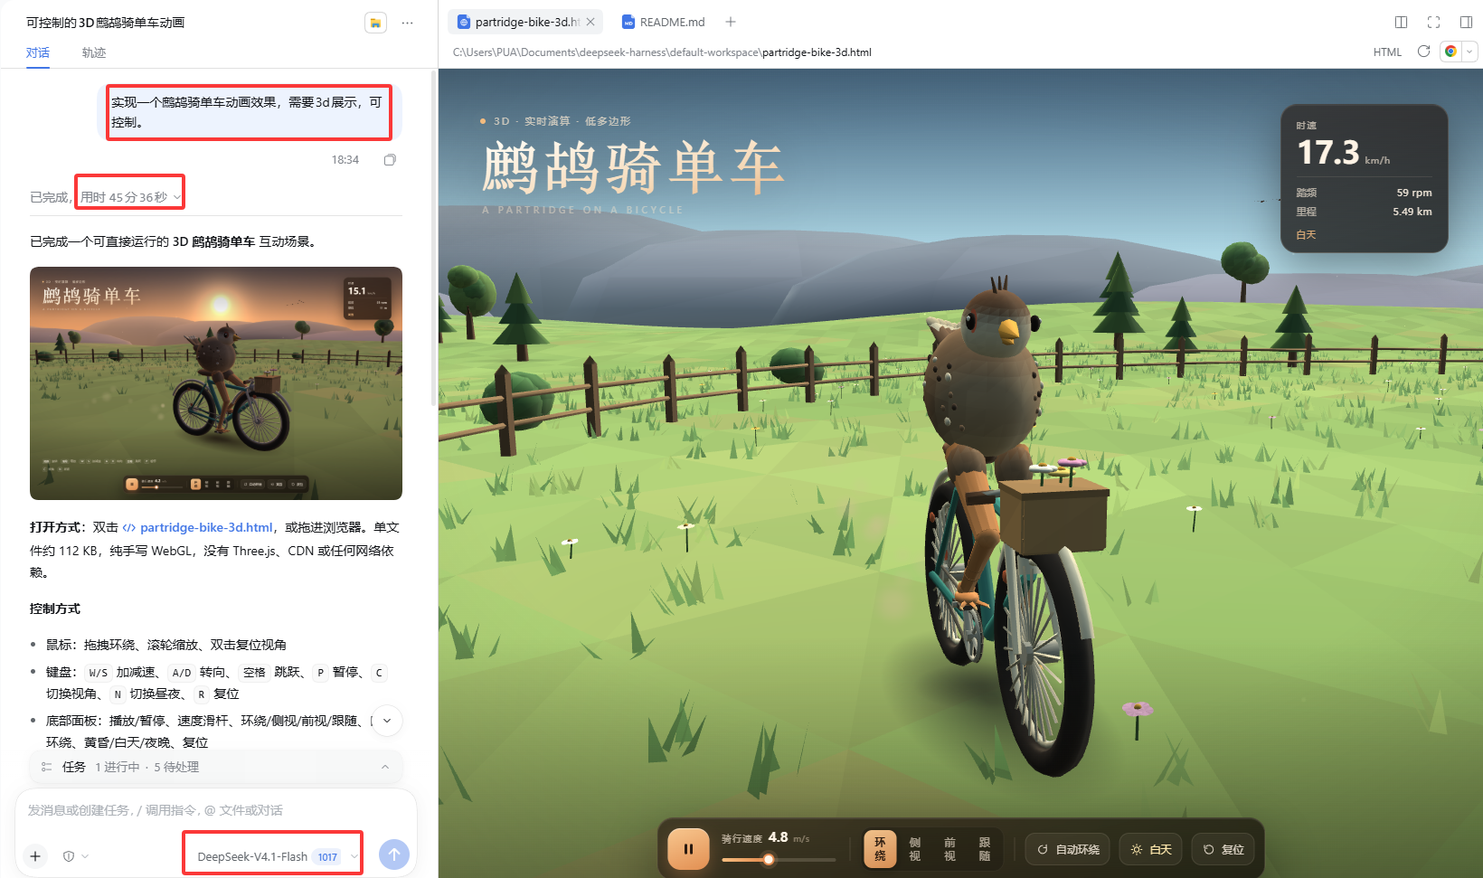
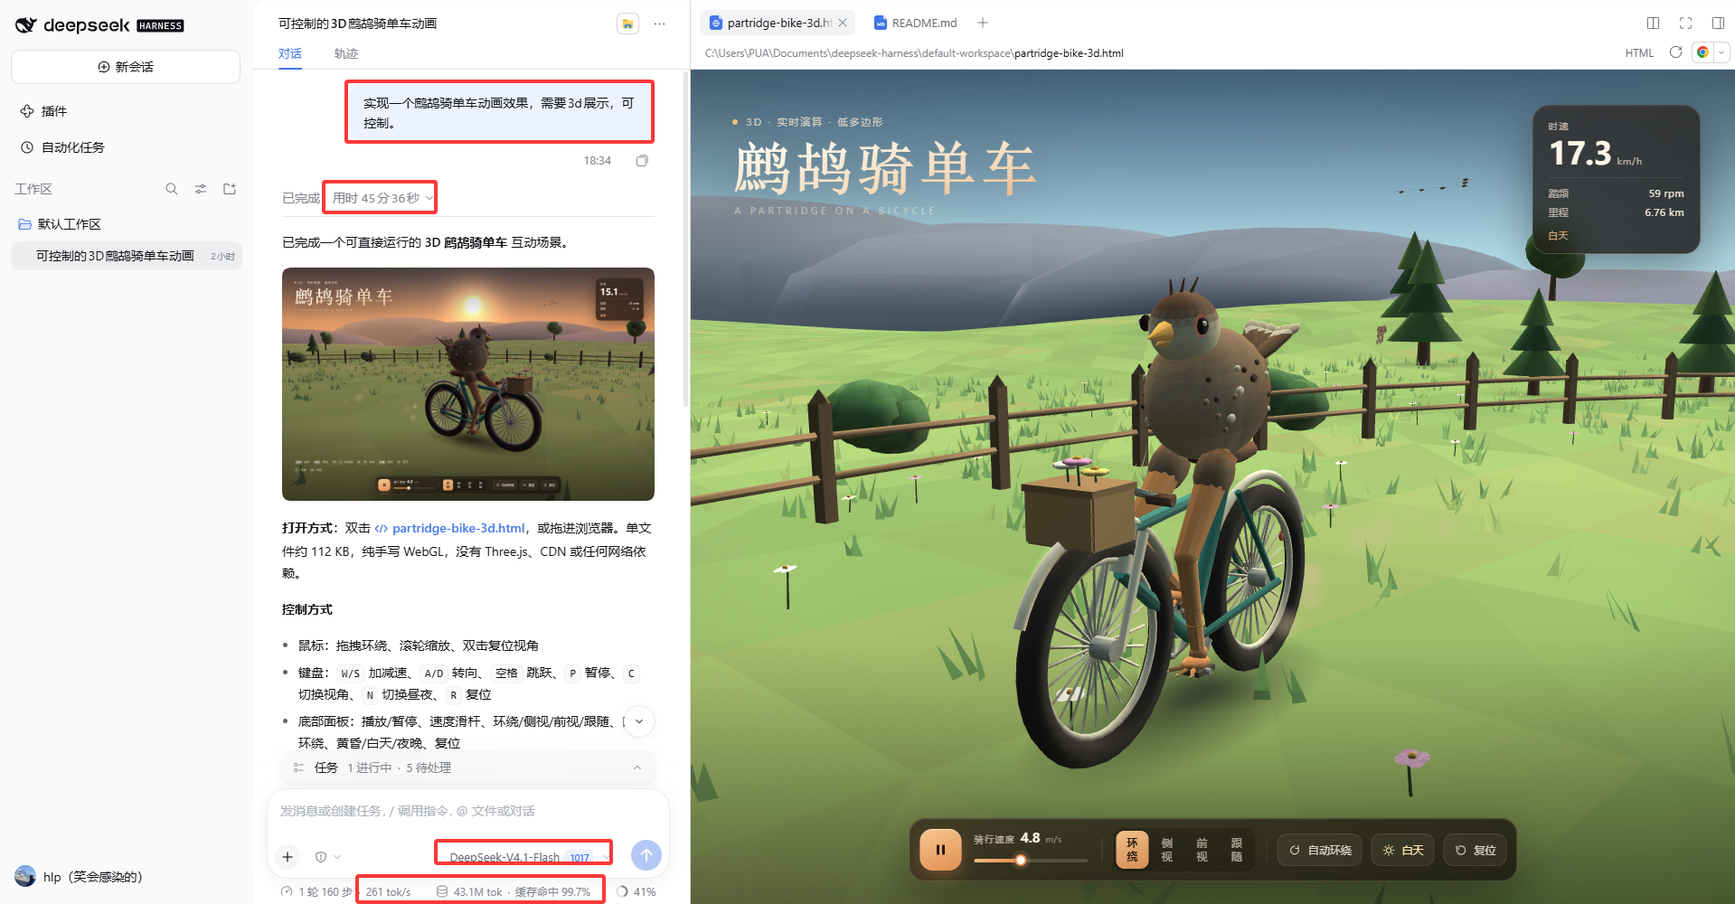
docs: replace DeepSeek task evidence and record visible usage statistics
Use the user-supplied screenshot showing elapsed time, model label, 261 tok/s and 99.7% cache hit rate. Preserve exact billing totals and distinguish the rounded interface token count. Update the comparison table, CSV and downloadable archive.

diff --git a/showcase/index.html b/showcase/index.html
@@ -1,6 +1,6 @@
 <!doctype html>
 <html lang="zh-CN">
-<head><meta charset="utf-8"><meta name="viewport" content="width=device-width,initial-scale=1"><meta name="theme-color" content="#f4f2ec"><title>鹧鸪骑单车 · 一个案例，多种实现</title><meta name="description" content="鹧鸪骑单车案例合集：MiniMax 完整版，以及 Codex、DeepSeek、混元的三份同题作品、耗时和消耗记录。"><link rel="icon" href="icon.svg" type="image/svg+xml"><link rel="stylesheet" href="style.css"><script type="module" src="app.js"></script></head>
+<head><meta charset="utf-8"><meta name="viewport" content="width=device-width,initial-scale=1"><meta name="theme-color" content="#f4f2ec"><title>鹧鸪骑单车 · 一个案例，多种实现</title><meta name="description" content="鹧鸪骑单车案例合集：MiniMax 完整版，以及 Codex、DeepSeek、混元的三份同题作品、耗时和消耗记录。"><link rel="icon" href="icon.svg" type="image/svg+xml"><link rel="stylesheet" href="style.css"><script type="module" src="app.js?v=deepseek-stats-2"></script></head>
 <body id="top">
 <a class="skip" href="#works">跳至作品</a>
 <header class="header wrap"><a class="brand" href="#top"><span class="brand-mark" aria-hidden="true">a<span>i</span></span><span>鹧鸪骑单车<small>ONE CASE / MANY BUILDS</small></span></a><nav aria-label="主导航"><a href="#minimax">完整版</a><a href="#works">同题作品</a><a href="#data">数据</a><a href="#archive">记录</a></nav><a class="edition" href="https://github.com/yydshly/partridge-bike" target="_blank" rel="noopener">GitHub ↗</a></header>
@@ -9,8 +9,8 @@
  <section class="legacy wrap" id="minimax" aria-labelledby="minimax-title"><a class="legacy-image" href="minimax/"><img src="previews/minimax.jpg" alt="MiniMax 鹧鸪骑行小世界，包含路线、天气与音乐" loading="lazy"><span>进入完整版 ↗</span></a><div class="legacy-copy"><span class="section-no">MINIMAX / 已有完整版</span><h2 id="minimax-title">沿着一条路，<br>骑进一个小世界。</h2><p>六段路线、昼夜天气、自动巡航，以及 8 首配乐。保留这个案例已有的完整体验与演示视频。</p><div class="legacy-links"><a class="button-dark" href="minimax/">打开 MiniMax 完整版 ↗</a><a class="text-link" href="https://github.com/yydshly/partridge-bike/releases/tag/demo-video-2026-10-17" target="_blank" rel="noopener">看演示视频 ↗</a></div><small>历史版本 · 代码与音乐由 MiniMax 生成<br>耗时、费用和具体模型版本未提供，未计入下方三次同题记录。</small></div></section>
  <section class="works wrap" id="works" aria-labelledby="works-title"><div class="section-heading"><div><span class="section-no">2026.10.18 / SAME PROMPT</span><h2 id="works-title">三份同题作品，亲手试试。</h2></div><p>保留各自的最终成品<br>点击作品，进入交互体验</p></div><div id="cards" class="cards"><p>正在读取作品档案…</p></div></section>
  <section class="viewer-section wrap" id="playground" aria-labelledby="viewer-heading"><div class="viewer-heading"><div><span class="section-no">INTERACTIVE PLAYGROUND</span><h2 id="viewer-heading">体验台</h2></div><div class="viewer-links"><a id="standalone" target="_blank" rel="noopener" href="demos/codex/">独立打开 ↗</a><a id="download-artifact" href="demos/codex/index.html" download="codex-partridge.html">下载成品 ↓</a></div></div><div class="viewer"><div id="tabs" class="tabs" role="tablist" aria-label="选择作品"></div><div id="demo-panel" role="tabpanel" aria-label="作品体验区" tabindex="0"><div class="poster"><img id="poster-image" src="previews/codex.png" alt="GPT-6 Astra 的鹧鸪骑单车作品"><button id="start-demo" class="start-demo" type="button"><span aria-hidden="true">▶</span> 启动 3D 体验</button></div><div id="frame-container"></div></div><div class="viewer-foot"><span id="viewer-status" role="status">点击启动后，可直接使用作品自带的控制面板。</span><button id="stop-demo" type="button" hidden>结束体验 ×</button></div></div><div class="feature-line"><span>可以试试</span><p id="features"></p></div></section>
- <section class="data-section" id="data" aria-labelledby="data-title"><div class="wrap"><div class="section-heading"><div><span class="section-no">02 / THE RECORDS</span><h2 id="data-title">效果之外，把数字摊开。</h2></div><div class="download-links"><a href="data.csv" download>下载 CSV ↓</a><a href="data.json" download>原始数据 JSON ↗</a></div></div><p class="data-intro">时间来自任务界面，消耗来自用户账单或说明；每一个已知数字，都保留来源。</p><div class="table-scroll" tabindex="0" role="region" aria-label="模型、耗时与消耗对照表"><table><caption class="sr-only">一次鹧鸪骑单车任务的三份成品记录</caption><thead><tr><th scope="col">记录项</th><th scope="col"><span class="model-dot codex"></span>GPT-6 Astra</th><th scope="col"><span class="model-dot deepseek"></span>DeepSeek-V4.1-Flash</th><th scope="col"><span class="model-dot hunyuan"></span>混元 4</th></tr></thead><tbody id="metrics"></tbody></table></div><div class="data-notes"><p><b>01</b><span>耗时包含各自任务过程。环境、工具、迭代次数未统一，不能直接等同于模型生成速度。</span></p><p><b>02</b><span>DeepSeek 账单窗口为“近 30 天”；用户确认全部消耗来自本次任务。Tokens 无输入、输出、缓存拆分。</span></p><p><b>03</b><span>“未提供”表示没有数据。混元本次使用免费额度，单独标注；不代表常规 API 定价。这是单次成品记录，不作模型整体排名。</span></p></div></div></section>
- <section class="archive wrap" id="archive" aria-labelledby="archive-title"><div class="section-heading"><div><span class="section-no">03 / TRACEABLE BY DESIGN</span><h2 id="archive-title">成品有来处，数据有凭据。</h2></div><p>原始截图与项目档案<br>方便回看，也方便后续补充</p></div><div class="evidence-grid"><button class="evidence" data-evidence="codex-session.png" data-title="Codex · 模型与任务耗时" type="button"><span class="evidence-image"><img src="evidence/codex-session.png" alt="Codex 截图：GPT-6 Astra 极高，20 分 11 秒" loading="lazy"></span><span class="evidence-caption"><span><b>Codex · 任务界面</b><small>模型设置与 20 分 11 秒用时</small></span><span aria-hidden="true">↗</span></span></button><button class="evidence" data-evidence="deepseek-session.png" data-title="DeepSeek · 模型与任务耗时" type="button"><span class="evidence-image"><img src="evidence/deepseek-session.png" alt="DeepSeek 任务界面：模型及 45 分 36 秒用时" loading="lazy"></span><span class="evidence-caption"><span><b>DeepSeek · 任务界面</b><small>模型版本与 45 分 36 秒用时</small></span><span aria-hidden="true">↗</span></span></button><button class="evidence" data-evidence="deepseek-usage.png" data-title="DeepSeek · 消耗账单（近 30 天，用户确认全属本任务）" type="button"><span class="evidence-image billing"><img src="evidence/deepseek-usage.png" alt="DeepSeek 账单：¥2.24、161 次 API 请求、43,141,343 Tokens" loading="lazy"></span><span class="evidence-caption"><span><b>DeepSeek · 消耗账单</b><small>¥2.24 / 161 次 / 43,141,343 Tokens</small></span><span aria-hidden="true">↗</span></span></button><button class="evidence" data-evidence="hunyuan-session.png" data-title="混元 4 · WorkBuddy / Hy4 preview / 25 分 12 秒 / 夜间免费" type="button"><span class="evidence-image"><img src="evidence/hunyuan-session.png" alt="WorkBuddy 任务截图：Hy4 preview、25m12s、夜间免费" loading="lazy"></span><span class="evidence-caption"><span><b>混元 4 · WorkBuddy 任务界面</b><small>Hy4 preview / 25 分 12 秒 / 夜间免费</small></span><span aria-hidden="true">↗</span></span></button></div><div class="archive-bottom"><div><h3>每个项目，留下一份完整档案。</h3><p>提示词、原始成品、可用源码、模型记录与证据按目录保存。<br>三份成品原样归档，并记录文件校验值。</p></div><a class="button-dark" href="downloads/partridge-bike-archive.zip" download>下载项目档案 <span>↓</span></a></div><details class="method"><summary>关于这次观察 <span>＋</span></summary><div><p>三次测试使用同一提示词，由用户确认。展示内容是各自的最终成品，包含可能的迭代与修复，不标注“一次生成”。模型名称和设置以用户提供的截图或说明为依据。</p><p>原始成品的绘制、动画与控制代码均未为本展示站修改。体验台按需加载一个作品，也可独立打开完整页面。作品需要支持 WebGL 的浏览器；用电脑体验更方便。</p><p>Codex 的界面耗时包含实现、检查和部署等工作。混元使用 WorkBuddy 的 Hy4 preview，截图显示耗时 25 分 12 秒，用户确认本次使用免费额度，界面标注夜间免费。混元 Tokens、API 请求次数及额度扣减数量未提供；Codex 消耗未提供。</p><p>本仓库聚焦「鹧鸪骑单车」这一个案例。MiniMax 完整版是已有版本；下方档案按日期保存本次三模型同题记录，后续可在同一仓库继续补充。</p></div></details></section>
+ <section class="data-section" id="data" aria-labelledby="data-title"><div class="wrap"><div class="section-heading"><div><span class="section-no">02 / THE RECORDS</span><h2 id="data-title">效果之外，把数字摊开。</h2></div><div class="download-links"><a href="data.csv" download>下载 CSV ↓</a><a href="data.json" download>原始数据 JSON ↗</a></div></div><p class="data-intro">时间来自任务界面，消耗来自用户账单或说明；每一个已知数字，都保留来源。</p><div class="table-scroll" tabindex="0" role="region" aria-label="模型、耗时与消耗对照表"><table><caption class="sr-only">一次鹧鸪骑单车任务的三份成品记录</caption><thead><tr><th scope="col">记录项</th><th scope="col"><span class="model-dot codex"></span>GPT-6 Astra</th><th scope="col"><span class="model-dot deepseek"></span>DeepSeek-V4.1-Flash</th><th scope="col"><span class="model-dot hunyuan"></span>混元 4</th></tr></thead><tbody id="metrics"></tbody></table></div><div class="data-notes"><p><b>01</b><span>耗时包含各自任务过程。环境、工具、迭代次数未统一，不能直接等同于模型生成速度。</span></p><p><b>02</b><span>DeepSeek 账单窗口为“近 30 天”，用户确认全属本任务。截图中的 43.1M tok 为近似显示；精确 Tokens 与费用采用账单，速率及缓存命中率采用界面原值。Tokens 无输入、输出、缓存数量拆分。</span></p><p><b>03</b><span>“未提供”表示没有数据。混元本次使用免费额度，单独标注；不代表常规 API 定价。这是单次成品记录，不作模型整体排名。</span></p></div></div></section>
+ <section class="archive wrap" id="archive" aria-labelledby="archive-title"><div class="section-heading"><div><span class="section-no">03 / TRACEABLE BY DESIGN</span><h2 id="archive-title">成品有来处，数据有凭据。</h2></div><p>原始截图与项目档案<br>方便回看，也方便后续补充</p></div><div class="evidence-grid"><button class="evidence" data-evidence="codex-session.png" data-title="Codex · 模型与任务耗时" type="button"><span class="evidence-image"><img src="evidence/codex-session.png" alt="Codex 截图：GPT-6 Astra 极高，20 分 11 秒" loading="lazy"></span><span class="evidence-caption"><span><b>Codex · 任务界面</b><small>模型设置与 20 分 11 秒用时</small></span><span aria-hidden="true">↗</span></span></button><button class="evidence" data-evidence="deepseek-session.png" data-title="DeepSeek · 任务统计 / 45 分 36 秒 / 261 tok/s / 缓存命中 99.7%" type="button"><span class="evidence-image"><img src="evidence/deepseek-session.png?v=deepseek-stats-2" alt="DeepSeek 任务统计：DeepSeek-V4.1-Flash 1017、45 分 36 秒、261 tok/s、43.1M tok、缓存命中 99.7%" loading="lazy"></span><span class="evidence-caption"><span><b>DeepSeek · 任务统计</b><small>45 分 36 秒 / 261 tok/s / 缓存命中 99.7%</small></span><span aria-hidden="true">↗</span></span></button><button class="evidence" data-evidence="deepseek-usage.png" data-title="DeepSeek · 消耗账单（近 30 天，用户确认全属本任务）" type="button"><span class="evidence-image billing"><img src="evidence/deepseek-usage.png" alt="DeepSeek 账单：¥2.24、161 次 API 请求、43,141,343 Tokens" loading="lazy"></span><span class="evidence-caption"><span><b>DeepSeek · 消耗账单</b><small>¥2.24 / 161 次 / 43,141,343 Tokens</small></span><span aria-hidden="true">↗</span></span></button><button class="evidence" data-evidence="hunyuan-session.png" data-title="混元 4 · WorkBuddy / Hy4 preview / 25 分 12 秒 / 夜间免费" type="button"><span class="evidence-image"><img src="evidence/hunyuan-session.png" alt="WorkBuddy 任务截图：Hy4 preview、25m12s、夜间免费" loading="lazy"></span><span class="evidence-caption"><span><b>混元 4 · WorkBuddy 任务界面</b><small>Hy4 preview / 25 分 12 秒 / 夜间免费</small></span><span aria-hidden="true">↗</span></span></button></div><div class="archive-bottom"><div><h3>每个项目，留下一份完整档案。</h3><p>提示词、原始成品、可用源码、模型记录与证据按目录保存。<br>三份成品原样归档，并记录文件校验值。</p></div><a class="button-dark" href="downloads/partridge-bike-archive.zip" download>下载项目档案 <span>↓</span></a></div><details class="method"><summary>关于这次观察 <span>＋</span></summary><div><p>三次测试使用同一提示词，由用户确认。展示内容是各自的最终成品，包含可能的迭代与修复，不标注“一次生成”。模型名称和设置以用户提供的截图或说明为依据。</p><p>原始成品的绘制、动画与控制代码均未为本展示站修改。体验台按需加载一个作品，也可独立打开完整页面。作品需要支持 WebGL 的浏览器；用电脑体验更方便。</p><p>Codex 的界面耗时包含实现、检查和部署等工作。混元使用 WorkBuddy 的 Hy4 preview，截图显示耗时 25 分 12 秒，用户确认本次使用免费额度，界面标注夜间免费。混元 Tokens、API 请求次数及额度扣减数量未提供；Codex 消耗未提供。</p><p>本仓库聚焦「鹧鸪骑单车」这一个案例。MiniMax 完整版是已有版本；下方档案按日期保存本次三模型同题记录，后续可在同一仓库继续补充。</p></div></details></section>
 </main><footer class="wrap"><span>鹧鸪骑单车 <span class="muted">/ 一个案例，多种实现。</span></span><a href="https://github.com/yydshly/partridge-bike" target="_blank" rel="noopener">查看项目仓库 ↗</a><a href="#top">回到顶部 ↑</a></footer>
 <dialog id="evidence-dialog" aria-labelledby="evidence-title"><div class="dialog-top"><h2 id="evidence-title">证据截图</h2><button id="close-evidence" type="button" aria-label="关闭证据截图">×</button></div><div class="evidence-scroll"><img id="evidence-full" alt=""></div><a id="evidence-original" target="_blank" rel="noopener">打开原图 ↗</a></dialog><div class="toast" id="toast" role="status" hidden></div><noscript><p class="wrap">启用 JavaScript 可查看数据并交互。也可直接打开：<a href="demos/codex/">Codex 成品</a> / <a href="demos/deepseek/">DeepSeek 成品</a> / <a href="demos/hunyuan/">混元成品</a>。</p></noscript>
 </body></html>

diff --git a/showcase/app.js b/showcase/app.js
@@ -19,12 +19,12 @@ function start(){
  frame.addEventListener('load',()=>{$('#viewer-status').textContent='体验中 · 可拖拽场景、调节速度，或使用作品自带的控制面板。';});
  $('#frame-container').append(frame);
 }
-function openEvidence(file,title){$('#evidence-title').textContent=title;$('#evidence-full').src=`evidence/${file}`;$('#evidence-full').alt=title;$('#evidence-original').href=`evidence/${file}`;$('#evidence-dialog').showModal();}
+function openEvidence(file,title){if(file==='deepseek-session.png')file+='?v=deepseek-stats-2';$('#evidence-title').textContent=title;$('#evidence-full').src=`evidence/${file}`;$('#evidence-full').alt=title;$('#evidence-original').href=`evidence/${file}`;$('#evidence-dialog').showModal();}
 async function boot(){
- const response=await fetch('data.json');if(!response.ok)throw Error('数据暂时无法读取');data=await response.json();
+ const response=await fetch('data.json',{cache:'no-cache'});if(!response.ok)throw Error('数据暂时无法读取');data=await response.json();
  $('#cards').innerHTML=data.runs.map((r,i)=>`<article class="work-card ${r.id}"><button class="card-preview" data-play="${r.id}" type="button" aria-label="体验 ${esc(r.name)} 的作品"><img src="previews/${r.id}.png" alt="${esc(r.name+'：'+r.short)}" ${i?'loading="lazy"':''}><span class="card-index">0${i+1}</span><span class="card-arrow" aria-hidden="true">↗</span></button><div class="card-meta"><span class="model-name"><span class="model-dot"></span>${esc(r.name)}</span><span class="harness">${esc(r.harness)}</span></div><h3>${esc(r.short)}</h3><div class="card-stats"><div><small>界面任务耗时</small><strong class="${r.timeSeconds===null?'missing':''}">${esc(r.timeLabel)}</strong></div><div><small>本次费用 · CNY</small><strong class="${r.costCny===null?'missing':''}">${r.costCny===null?'未提供':esc(r.costLabel||'¥'+r.costCny.toFixed(2))}</strong></div></div></article>`).join('');
  $('#tabs').innerHTML=data.runs.map(r=>`<button id="tab-${r.id}" type="button" role="tab" data-id="${r.id}" aria-controls="demo-panel" aria-selected="false" tabindex="-1">${esc(r.name)}</button>`).join('');
- const rows=[['工具环境',r=>esc(r.harness)],['模型设置 / 版本标记',r=>esc(r.setting)],['界面任务耗时',r=>r.timeSeconds===null?unknown:`<span class="number">${Math.floor(r.timeSeconds/60)}<span class="subunit">′</span>${String(r.timeSeconds%60).padStart(2,'0')}″</span><span class="subcell">${esc(r.timeLabel)}</span>`],['费用 · CNY',r=>r.costCny===null?unknown:`${r.costBasis==='free_quota'?`<span class="free-quota">${esc(r.costLabel)}</span><span class="subcell">WorkBuddy · 夜间免费</span>`:`<span class="number money">¥${r.costCny.toFixed(2)}</span>`}`],['Tokens · 账单合计',r=>r.tokens===null?unknown:`<span class="number">${r.tokens.toLocaleString('en-US')}</span>`],['API 请求次数',r=>r.requests===null?unknown:`<span class="number">${r.requests}</span>`],['3D 实现',r=>esc(r.engine)],['记录依据',r=>r.evidence.length?`<button class="cell-source" data-evidence="${r.evidence[0]}" data-title="${esc(r.name)} · 任务截图" type="button">查看截图 ↗</button>`:'<span class="subcell">模型名称来自用户说明</span>']];
+ const rows=[['工具环境',r=>esc(r.harness)],['模型设置 / 版本标记',r=>esc(r.setting)],['界面任务耗时',r=>r.timeSeconds===null?unknown:`<span class="number">${Math.floor(r.timeSeconds/60)}<span class="subunit">′</span>${String(r.timeSeconds%60).padStart(2,'0')}″</span><span class="subcell">${esc(r.timeLabel)}</span>`],['费用 · CNY',r=>r.costCny===null?unknown:`${r.costBasis==='free_quota'?`<span class="free-quota">${esc(r.costLabel)}</span><span class="subcell">WorkBuddy · 夜间免费</span>`:`<span class="number money">¥${r.costCny.toFixed(2)}</span>`}`],['Tokens · 账单合计',r=>r.tokens===null?unknown:`<span class="number">${r.tokens.toLocaleString('en-US')}</span>`],['API 请求次数',r=>r.requests===null?unknown:`<span class="number">${r.requests}</span>`],['界面速率 · tok/s',r=>Number.isFinite(r.interfaceStats?.tokensPerSecond)?`<span class="number">${r.interfaceStats.tokensPerSecond}</span>`:unknown],['缓存命中率 · 界面',r=>Number.isFinite(r.interfaceStats?.cacheHitRatePercent)?`<span class="number">${r.interfaceStats.cacheHitRatePercent}%</span>`:unknown],['3D 实现',r=>esc(r.engine)],['记录依据',r=>r.evidence.length?`<button class="cell-source" data-evidence="${r.evidence[0]}" data-title="${esc(r.name)} · 任务截图" type="button">查看截图 ↗</button>`:'<span class="subcell">模型名称来自用户说明</span>']];
  $('#metrics').innerHTML=rows.map(([label,render])=>`<tr><th scope="row">${label}</th>${data.runs.map(r=>`<td>${render(r)}</td>`).join('')}</tr>`).join('');
  document.querySelectorAll('[data-play]').forEach(b=>b.addEventListener('click',()=>{select(b.dataset.play,true);$('#playground').scrollIntoView({behavior:matchMedia('(prefers-reduced-motion:reduce)').matches?'instant':'smooth'});}));
  document.querySelectorAll('[role=tab]').forEach(b=>{b.addEventListener('click',()=>select(b.dataset.id,running));b.addEventListener('keydown',event=>{const buttons=[...document.querySelectorAll('[role=tab]')];let i=buttons.indexOf(b);if(event.key==='ArrowRight')i=(i+1)%buttons.length;else if(event.key==='ArrowLeft')i=(i+buttons.length-1)%buttons.length;else if(event.key==='Home')i=0;else if(event.key==='End')i=buttons.length-1;else return;event.preventDefault();buttons[i].focus();select(buttons[i].dataset.id,running);});});

diff --git a/comparisons/2026-10-18/runs/deepseek-v4-1-flash/README.md b/comparisons/2026-10-18/runs/deepseek-v4-1-flash/README.md
@@ -8,6 +8,10 @@
 - 费用：¥2.24
 - Tokens：43,141,343
 - API 请求：161
+- 界面显示速率：261 tok/s
+- 界面缓存命中率：99.7%
+- 界面 Tokens：43.1M tok（近似值；精确合计仍采用账单）
+- 界面过程：1 轮、160 步（与 API 请求次数分别记录）
 - 渲染：自写 WebGL 引擎
 
 ## 体验
@@ -27,6 +31,8 @@
 任务界面显示的完成耗时；测试环境和过程未统一。
 
 账单截图范围为近 30 天；用户确认 ¥2.24、161 次 API 请求、43,141,343 Tokens 全部来自本次任务。Tokens 为账单合计，未提供输入、输出或缓存拆分。
+
+用户更新的 DeepSeek Harness 任务截图底栏。速率和缓存命中率均按界面显示记录，未提供计算方式；43.1M tok 为近似显示。1 轮、160 步是界面过程计数，与账单的 161 次 API 请求分别记录。
 
 - [deepseek-session.png](../../evidence/deepseek-session.png)
 - [deepseek-usage.png](../../evidence/deepseek-usage.png)

diff --git a/README.md b/README.md
@@ -14,6 +14,8 @@
 | DeepSeek Harness | DeepSeek-V4.1-Flash · 1017 | 45 分 36 秒 | ¥2.24 | 43,141,343 | 161 |
 | WorkBuddy | 混元 4 · Hy4 preview | 25 分 12 秒 | 免费额度（夜间免费） | 未提供 | 未提供 |
 
+DeepSeek 更新的任务截图还显示：261 tok/s、缓存命中率 99.7%、43.1M tok（近似值）。速率与缓存命中率按界面原值记录；精确 Tokens、费用与 API 请求数继续采用账单。
+
 用户确认三次使用相同提示词，DeepSeek「近 30 天」账单全部来自本次任务，混元本次使用免费额度。耗时是界面显示的任务时间；环境、工具和迭代过程未统一，展示最终成品，不标注「一次生成」，不作模型整体排名。MiniMax 是已有完整版，未计入本次三模型数据对照。
 
 - [完整对照档案](comparisons/2026-10-18/)：提示词、逐模型记录、原始成品、可用源码和证据截图。

diff --git a/comparisons/2026-10-18/README.md b/comparisons/2026-10-18/README.md
@@ -14,6 +14,8 @@
 | [DeepSeek-V4.1-Flash](runs/deepseek-v4-1-flash/) | DeepSeek Harness | 45 分 36 秒 | ¥2.24 | 43,141,343 | 161 |
 | [混元 4 · Hy4 preview](runs/hunyuan-4/) | WorkBuddy | 25 分 12 秒 | 免费额度（夜间免费） | 未提供 | 未提供 |
 
+DeepSeek 更新的任务截图还显示：261 tok/s、缓存命中率 99.7%、43.1M tok（近似值）。速率与缓存命中率按界面原值记录；精确 Tokens、费用与 API 请求数继续采用账单。
+
 ## 口径与局限
 
 - 三次测试使用同一条提示词，由用户确认。
